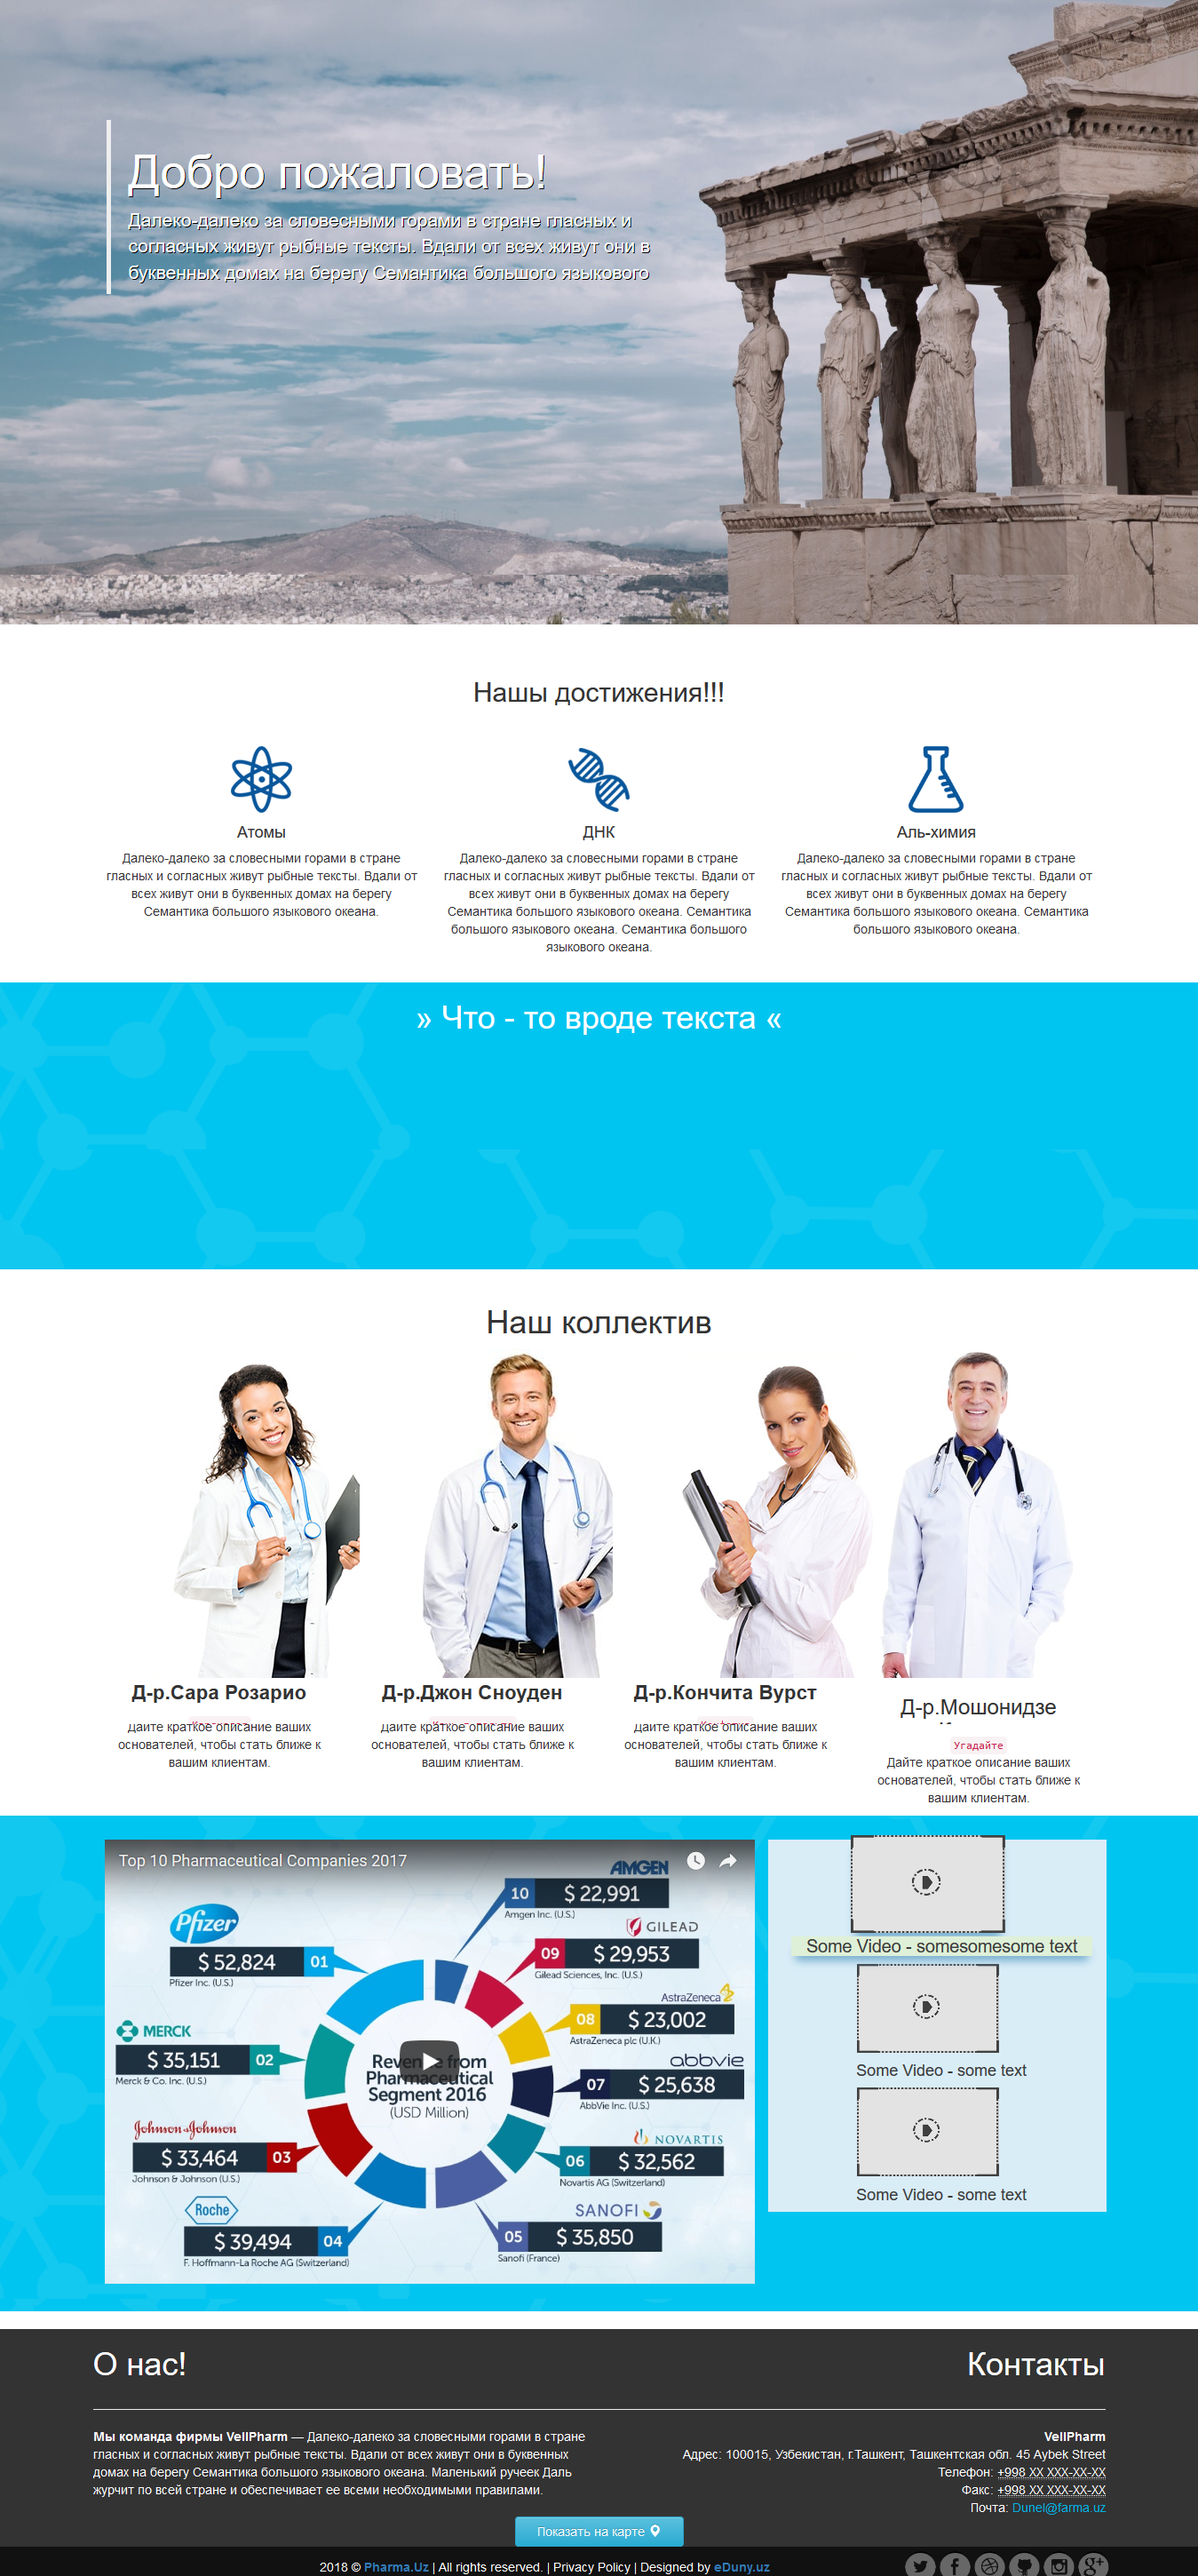
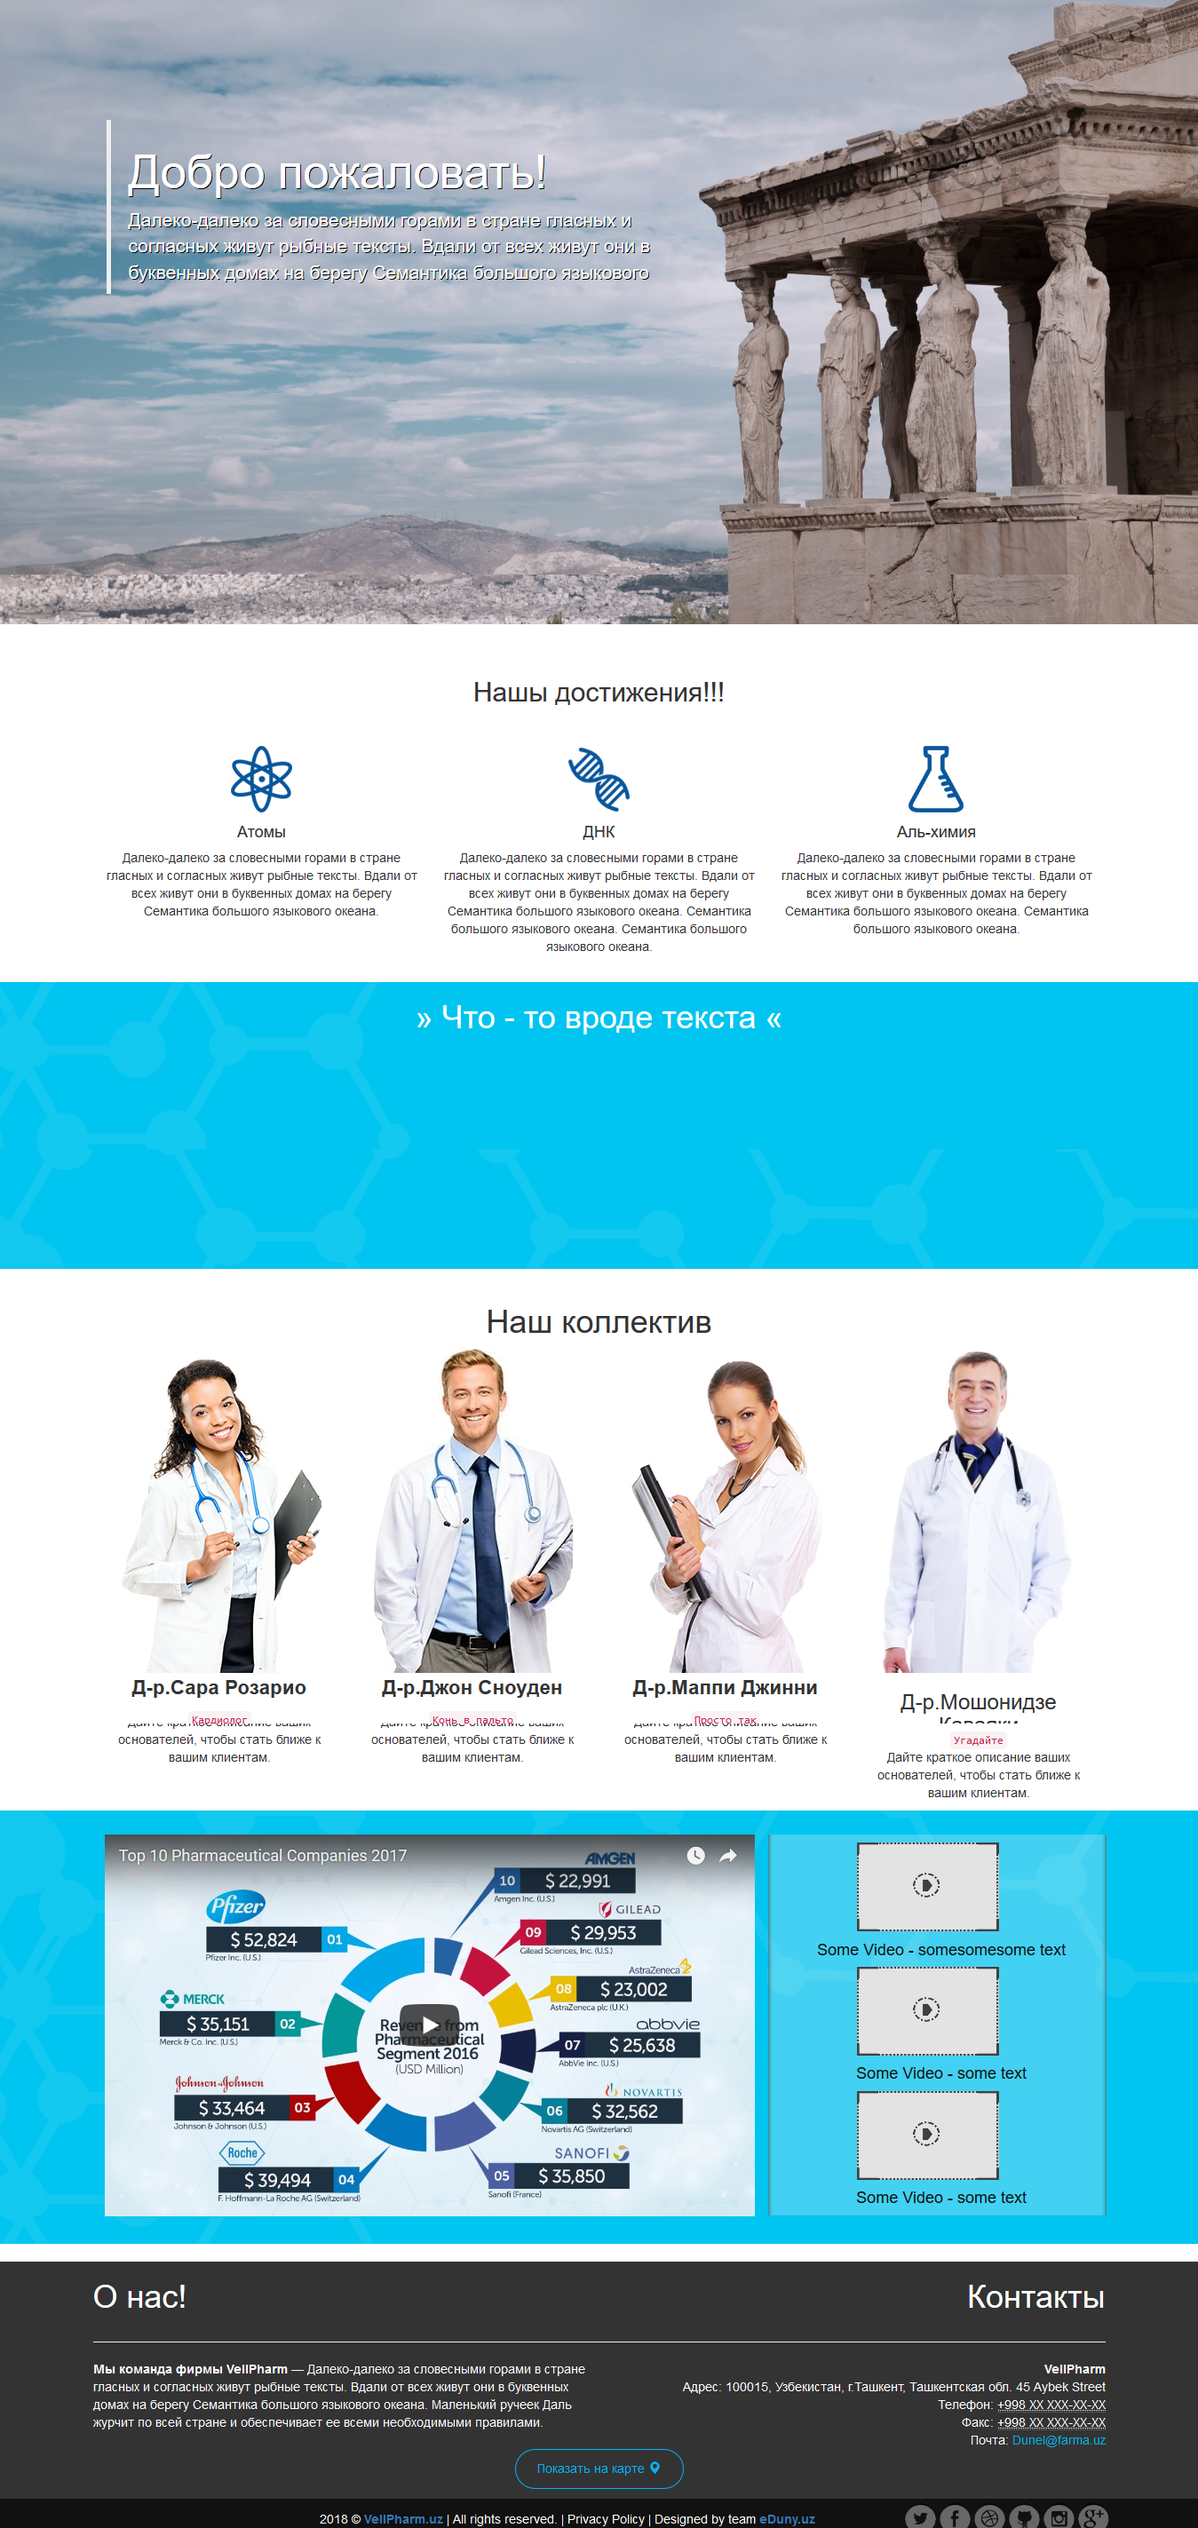
Rewrited some attr's, added pill cards

Changed region(s): [[0.0, 0.4946, 1.0, 1.0], [0.0, 0.0309, 1.0, 0.4018]]

diff --git a/index.html b/index.html
@@ -23,9 +23,7 @@
 </head>
 <body>
 	
-	<div class="container">
-	</div>
-
+	<!-- <div class="container"></div> -->
 	<div class="mainJ">
 		<div class="container" style="padding-top:10%">
 			<div class="col-md-7">
@@ -36,74 +34,115 @@
 			</div>
 		</div>
 	</div>
-	
-	<br><br>
-	
 	<div class="container">
-			<h2 class="text-center">Нашы достижения!!!</h2>
-			<div class="col-md-4" style="margin-top: 1%; padding-top: 2%">
-				<div class="text-center">
-					<img src="img/atom.png">
-					<h4>Атомы</h4>
-					<p class="text-center">Далеко-далеко за словесными горами в стране гласных и согласных живут рыбные тексты. Вдали от всех живут они в буквенных домах на берегу Семантика большого языкового океана.</p>
-				</div>
+		<h2 class="text-center">Нашы достижения!!!</h2>
+		<div class="col-md-4" style="margin-top: 1%; padding-top: 2%">
+			<div class="text-center">
+				<img src="img/atom.png">
+				<h4>Атомы</h4>
+				<p class="text-center">Далеко-далеко за словесными горами в стране гласных и согласных живут рыбные тексты. Вдали от всех живут они в буквенных домах на берегу Семантика большого языкового океана.</p>
 			</div>
-			<div class="col-md-4" style="margin-top: 1%; padding-top: 2%">
-				<div class="text-center">
-					<img src="img/dnk.png">
-					<h4>ДНК</h4>
-					<p class="text-center">Далеко-далеко за словесными горами в стране гласных и согласных живут рыбные тексты. Вдали от всех живут они в буквенных домах на берегу Семантика большого языкового океана. Семантика большого языкового океана. Семантика большого языкового океана.</p>
-				</div>
+		</div>
+		<div class="col-md-4" style="margin-top: 1%; padding-top: 2%">
+			<div class="text-center">
+				<img src="img/dnk.png">
+				<h4>ДНК</h4>
+				<p class="text-center">Далеко-далеко за словесными горами в стране гласных и согласных живут рыбные тексты. Вдали от всех живут они в буквенных домах на берегу Семантика большого языкового океана. Семантика большого языкового океана. Семантика большого языкового океана.</p>
 			</div>
-			<div class="col-md-4" style="margin-top: 1%; padding-top: 2%">
-				<div class="text-center">
-					<img src="img/colba.png">
-					<h4>Аль-химия</h4>
-					<p class="text-center">Далеко-далеко за словесными горами в стране гласных и согласных живут рыбные тексты. Вдали от всех живут они в буквенных домах на берегу Семантика большого языкового океана. Семантика большого языкового океана.</p>
-				</div>
+		</div>
+		<div class="col-md-4" style="margin-top: 1%; padding-top: 2%">
+			<div class="text-center">
+				<img src="img/colba.png">
+				<h4>Аль-химия</h4>
+				<p class="text-center">Далеко-далеко за словесными горами в стране гласных и согласных живут рыбные тексты. Вдали от всех живут они в буквенных домах на берегу Семантика большого языкового океана. Семантика большого языкового океана.</p>
 			</div>
+		</div>
 	</div>
-
-	<br>
 	
 	<div class="container-fluid parallax-bg text-center">
-		<h1>&raquo; Что - то вроде текста &laquo;</h1>
+		<h1>&raquo; Нашы лучшие подукты &laquo;</h1>
+		<div class="container">
+			<div class="col-md-12">
+				<div class="col-md-4">
+					<div class="pCards">
+						<div class="pCardT">
+							<p class="text-center">Lorem ipsum dolor sit amet, consectetur adipisicing elit. Tempora, cupiditate deleniti ea.</p>
+						</div>
+					</div>
+				</div>
+				<div class="col-md-4">
+					<div class="pCards">
+						<div class="pCardT">
+							<p class="text-center">Lorem ipsum dolor sit amet, consectetur adipisicing elit. Tempora, cupiditate deleniti ea.</p>
+						</div>
+					</div>
+				</div>
+				<div class="col-md-4">
+					<div class="pCards">
+						<div class="pCardT">
+							<p class="text-center">Lorem ipsum dolor sit amet, consectetur adipisicing elit. Tempora, cupiditate deleniti ea.</p>
+						</div>
+					</div>
+				</div>
+			</div>
+			<div class="col-md-12">
+				<div class="col-md-4">
+					<div class="pCards">
+						<div class="pCardT">
+							<p class="text-center">Lorem ipsum dolor sit amet, consectetur adipisicing elit. Tempora, cupiditate deleniti ea.</p>
+						</div>
+					</div>
+				</div>
+				<div class="col-md-4">
+					<div class="pCards">
+						<div class="pCardT">
+							<p class="text-center">Lorem ipsum dolor sit amet, consectetur adipisicing elit. Tempora, cupiditate deleniti ea.</p>
+						</div>
+					</div>
+				</div>
+				<div class="col-md-4">
+					<div class="pCards">
+						<div class="pCardT">
+							<p class="text-center">Lorem ipsum dolor sit amet, consectetur adipisicing elit. Tempora, cupiditate deleniti ea.</p>
+						</div>
+					</div>
+				</div>
+			</div>
+		</div>
 	</div>
 
-	<br>
-	
 	<div class="container text-center">
 		<h1>Наш коллектив</h1>
 		<div class="col-md-3">
-			<img src="img/woman-1.png" class="img">
-			<p style="font-size:1.6em; font-weight: bold">Д-р.Сара Розарио</p>
+			<img src="img/woman-11.png" class="img-responsive">
+			<p style="font-size:1.6em;">Д-р.Сара Розарио</p>
 			<code>Кардиолог</code>
 			<p>Дайте краткое описание ваших основателей, чтобы стать ближе к вашим клиентам.</p>
 		</div>
 		<div class="col-md-3">
-			<img src="img/man-1.jpg" class="img">
-			<p style="font-size:1.6em; font-weight: bold">Д-р.Джон Сноуден</p>
+			<img src="img/man-11.jpg" class="img-responsive">
+			<p style="font-size:1.6em;">Д-р.Джон Сноуден</p>
 			<code>Конь в пальто</code>
 			<p>Дайте краткое описание ваших основателей, чтобы стать ближе к вашим клиентам.</p>
 		</div>
 		<div class="col-md-3">
-			<img src="img/woman-2.png" class="img">
-			<p style="font-size:1.6em; font-weight: bold">Д-р.Кончита Вурст</p>
-			<code>Конфетка</code>
+			<img src="img/woman-21.png" class="img-responsive">
+			<p style="font-size:1.6em;">Д-р.Маппи Джинни</p>
+			<code>Просто так</code>
 			<p>Дайте краткое описание ваших основателей, чтобы стать ближе к вашим клиентам.</p>
 		</div>
 		<div class="col-md-3">
-			<img src="img/old-man.jpg" height="370" class="img">
-			<h3>Д-р.Мошонидзе Каваяки</h3>
+			<img src="img/old-man1.jpg" class="img-responsive">
+			<p style="font-size: 1.6em;">Д-р.Мошонидзе Каваяки</p style="font-size: 1.6em;">
 			<code>Угадайте</code>
 			<p>Дайте краткое описание ваших основателей, чтобы стать ближе к вашим клиентам.</p>
 		</div>
 	</div>
-	
+
 	<div class="container-fluid parallax-bg">
 		<div class="container" style="padding: 2% 1%">
-			<div class="col-md-8 text-center">
-				<iframe class="youtube-block" width="100%" height="430" src="https://www.youtube.com/embed/RRvbx_MjNdI" frameborder="0" allow="autoplay; encrypted-media" allowfullscreen></iframe>
+			<div class="col-md-8 text-center ">
+				<iframe class="youtube-block spec" width="100%" height="430" src="https://www.youtube.com/embed/RRvbx_MjNdI" frameborder="0" allow="autoplay; encrypted-media" allowfullscreen></iframe>
 			</div>
 			<div class="col-md-4 text-center vList">
 			    <ul>
@@ -123,17 +162,15 @@
 			</div>
 		</div>
 	</div>
-	<br>
 
-	<div class="footer" style="background: #333; color: #fff">
-		
-		<div class="container" style="min-height: 200px;">
-			<div class="row">
+	<div class="col-md-12" style="background: #333; color: #fff; min-height: 200px;">
+		<div class="container">
+			<div class="col-md-12">
 				<h1 class="col-md-6 col-sm-6">О нас!</h1>
 				<h1 class="col-md-6 text-right col-sm-6">Контакты</h1>
 			</div>
 			<hr>
-			<div class="row">
+			<div class="col-md-12">
 				<div class="col-md-6">
 					<p><b>Мы команда фирмы VellPharm</b> &mdash; Далеко-далеко за словесными горами в стране гласных и согласных живут рыбные тексты. Вдали от всех живут они в буквенных домах на берегу Семантика большого языкового океана. Маленький ручеек Даль журчит по всей стране и обеспечивает ее всеми необходимыми правилами.</p>
 				</div>
@@ -162,17 +199,16 @@
 			  		</a>
 				</div>
 			</div>
-			<button class="btn btn-me col-md-2 col-md-offset-5" data-toggle="collapse" data-target="#map">Показать на карте <b class="glyphicon glyphicon-map-marker"></b></button>
+			<button class="btn-me" data-toggle="collapse" data-target="#map">Показать на карте <b class="glyphicon glyphicon-map-marker"></b></button>
 		</div>
 		
 		<div class="collapse" id="map">
 			<iframe src="https://www.google.com/maps/embed?pb=!1m14!1m8!1m3!1d11990.010517769995!2d69.2756049!3d41.297928!3m2!1i1024!2i768!4f13.1!3m3!1m2!1s0x0%3A0x704512af6459eda3!2z0KLQsNGI0LrQtdC90YLRgdC60LjQuSDRhNCw0YDQvNCw0YbQtdCy0YLQuNGH0LXRgdC60LjQuSDQuNC90YHRgtC40YLRg9GC!5e0!3m2!1sru!2s!4v1526243598466" width="100%" height="450" frameborder="0" style="border:0" allowfullscreen></iframe>
 		</div>
 
-		<div class="col-md-12" style="background: #111;">
-			
-			<div class="col-md-5 col-md-offset-3 col-sm-5  col-sm-offset-3 col-xs-5" style="margin-top:1%;">2018 © <b class="text-primary">Pharma.Uz</b> | All rights reserved. | Privacy Policy | Designed by <b class="text-primary">eDuny.uz</b></div>
-			<div class="col-md-3 col-md-offset-1 col-sm-3  col-sm-offset-1 col-xs-3">
+		<div class="container-fluid" style="; padding: 0 !important;">
+			<div class="col-md-6 col-md-offset-3 col-sm-6 col-sm-offset-3 col-xs-6" style="margin-top:1%;">2018 © <b class="text-primary">VellPharm.uz</b> | All rights reserved. | Privacy Policy | Designed by team<b class="text-primary"> eDuny.uz</b></div>
+			<div class="col-md-3 col-sm-3 col-xs-3">
 				<div class="social">
 					<span class="social-t"></span>
 					<span class="social-f"></span>
@@ -182,7 +218,6 @@
 					<span class="social-g"></span>
 				</div>
 			</div>
-
 		</div>
 
 	</div>

diff --git a/css/pharma.css b/css/pharma.css
@@ -11,6 +11,7 @@ a:hover {
 
 .mainJ{
 	background: url(../img/main-land2.jpg);
+	width: 100%;
 	background-size: cover;
 	background-position: 0 25%;
 	background-repeat: no-repeat;
@@ -22,7 +23,7 @@ a:hover {
 }
 .parallax-bg{
 	background-image: url(../img/jumbo-parallax.png);
-	background-color: #00C5F0;
+	background-color: #00C5F0; /*#09569B*/
 	background-attachment: fixed;
 	background-size: cover;
 	background-position:;
@@ -30,19 +31,62 @@ a:hover {
 	color: #fff;
 	min-height: 340px;
 }
+.container{
+	margin: 3% auto;
+}
+/**********************************Pill-Cards************************************/
+.pCards{
+	background: url(../img/anal.png) no-repeat;
+	background-size: auto 100%;
+	background-position: center 20%;
+	margin: 1% 2%;
+	width: 100%;
+	min-height: 200px;
+	border-radius: 5px;
+	position: relative;
+	
+	-webkit-transition: all 0.5s ease;
+	-o-transition: all 0.5s ease;
+	transition: all 0.5s ease;
+}
+.pCards:hover{
+	background-size: auto 110%;
+}
+
+.pCards:hover .pCardT{
+	background: rgba(9,86,155,0.85);
+	top: 0;
+	padding-top: 10%;
+	border-radius: 5px;
+}
+
+.pCardT{
+	background: rgba(9,86,155,0.8);
+	position: absolute;
+	bottom:0;
+	color: white;
+	font-weight: 10px;
+	border-radius: 0 0 5px 5px;
+	
+	-webkit-transition: background 0.5s ease, top 0.5s ease, padding-top 0.5s ease;
+	-o-transition: background 0.5s ease, top 0.5s ease, padding-top 0.5s ease;
+	transition: background 0.5s ease, top 0.5s ease, padding-top 0.5s ease;
+}
+.pCardT>p{
+	margin: 5%;
+}
+/**********************************Youtube block************************************/
 .youtube-block{
 	background: url(../img/player-bg.png) no-repeat;
-	background-size: 100%;
+	background-size: 100% 100%;
 }
 
 .vList{ 
 	background: rgba(217,237,247,0.3);
 	color:#111;
-	box-shadow: 0 0  2px #333;
 }
-
 .vList img{ width:160px; height: 100px;  }
-.vList li{margin-top: 3%;}
+.vList li{ margin-top: 3%; }
 
 .vList li,
 .vList img{
@@ -65,8 +109,11 @@ a:hover {
 	border: 1px solid #00B2F4;
 	margin-bottom: 1%;
 	color: #00B2F4;
-	padding: 1%;
+	padding: 1% 2%;
 	border-radius: 25px;
+	font-size: 1.2em;
+	position: relative;
+	left: 42%;
 }
 .btn-me:hover{
 	color: #01EDC9;
